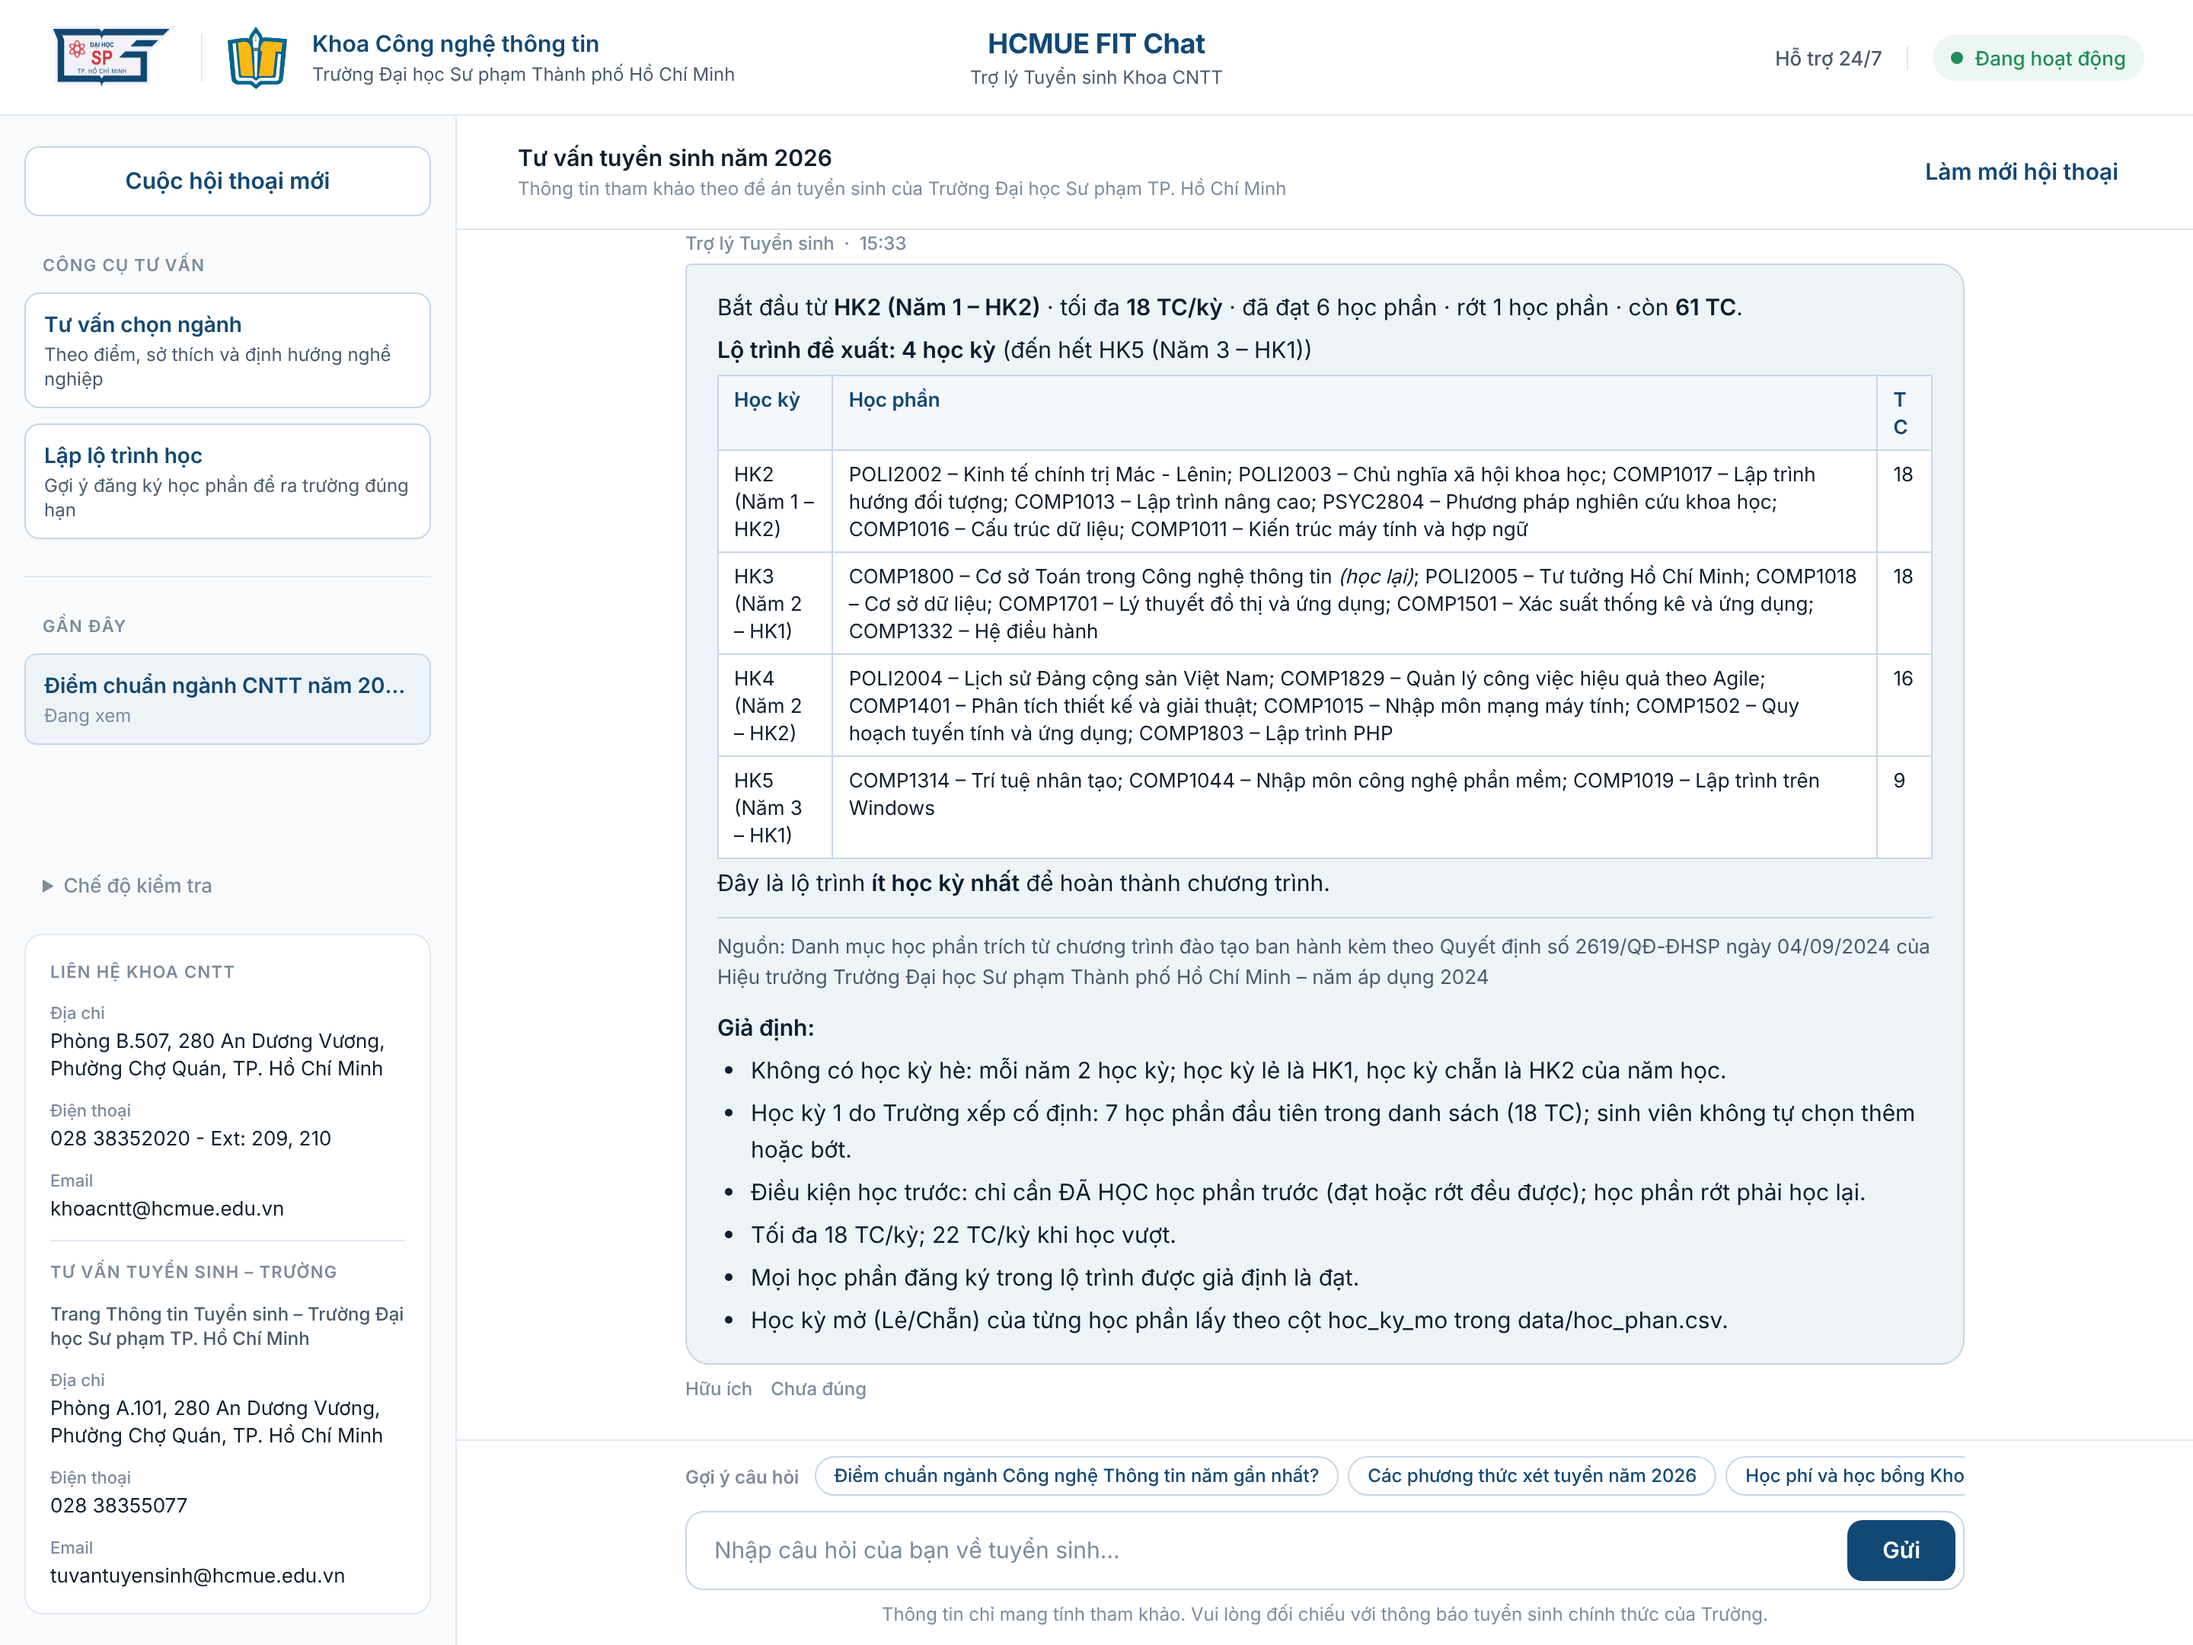
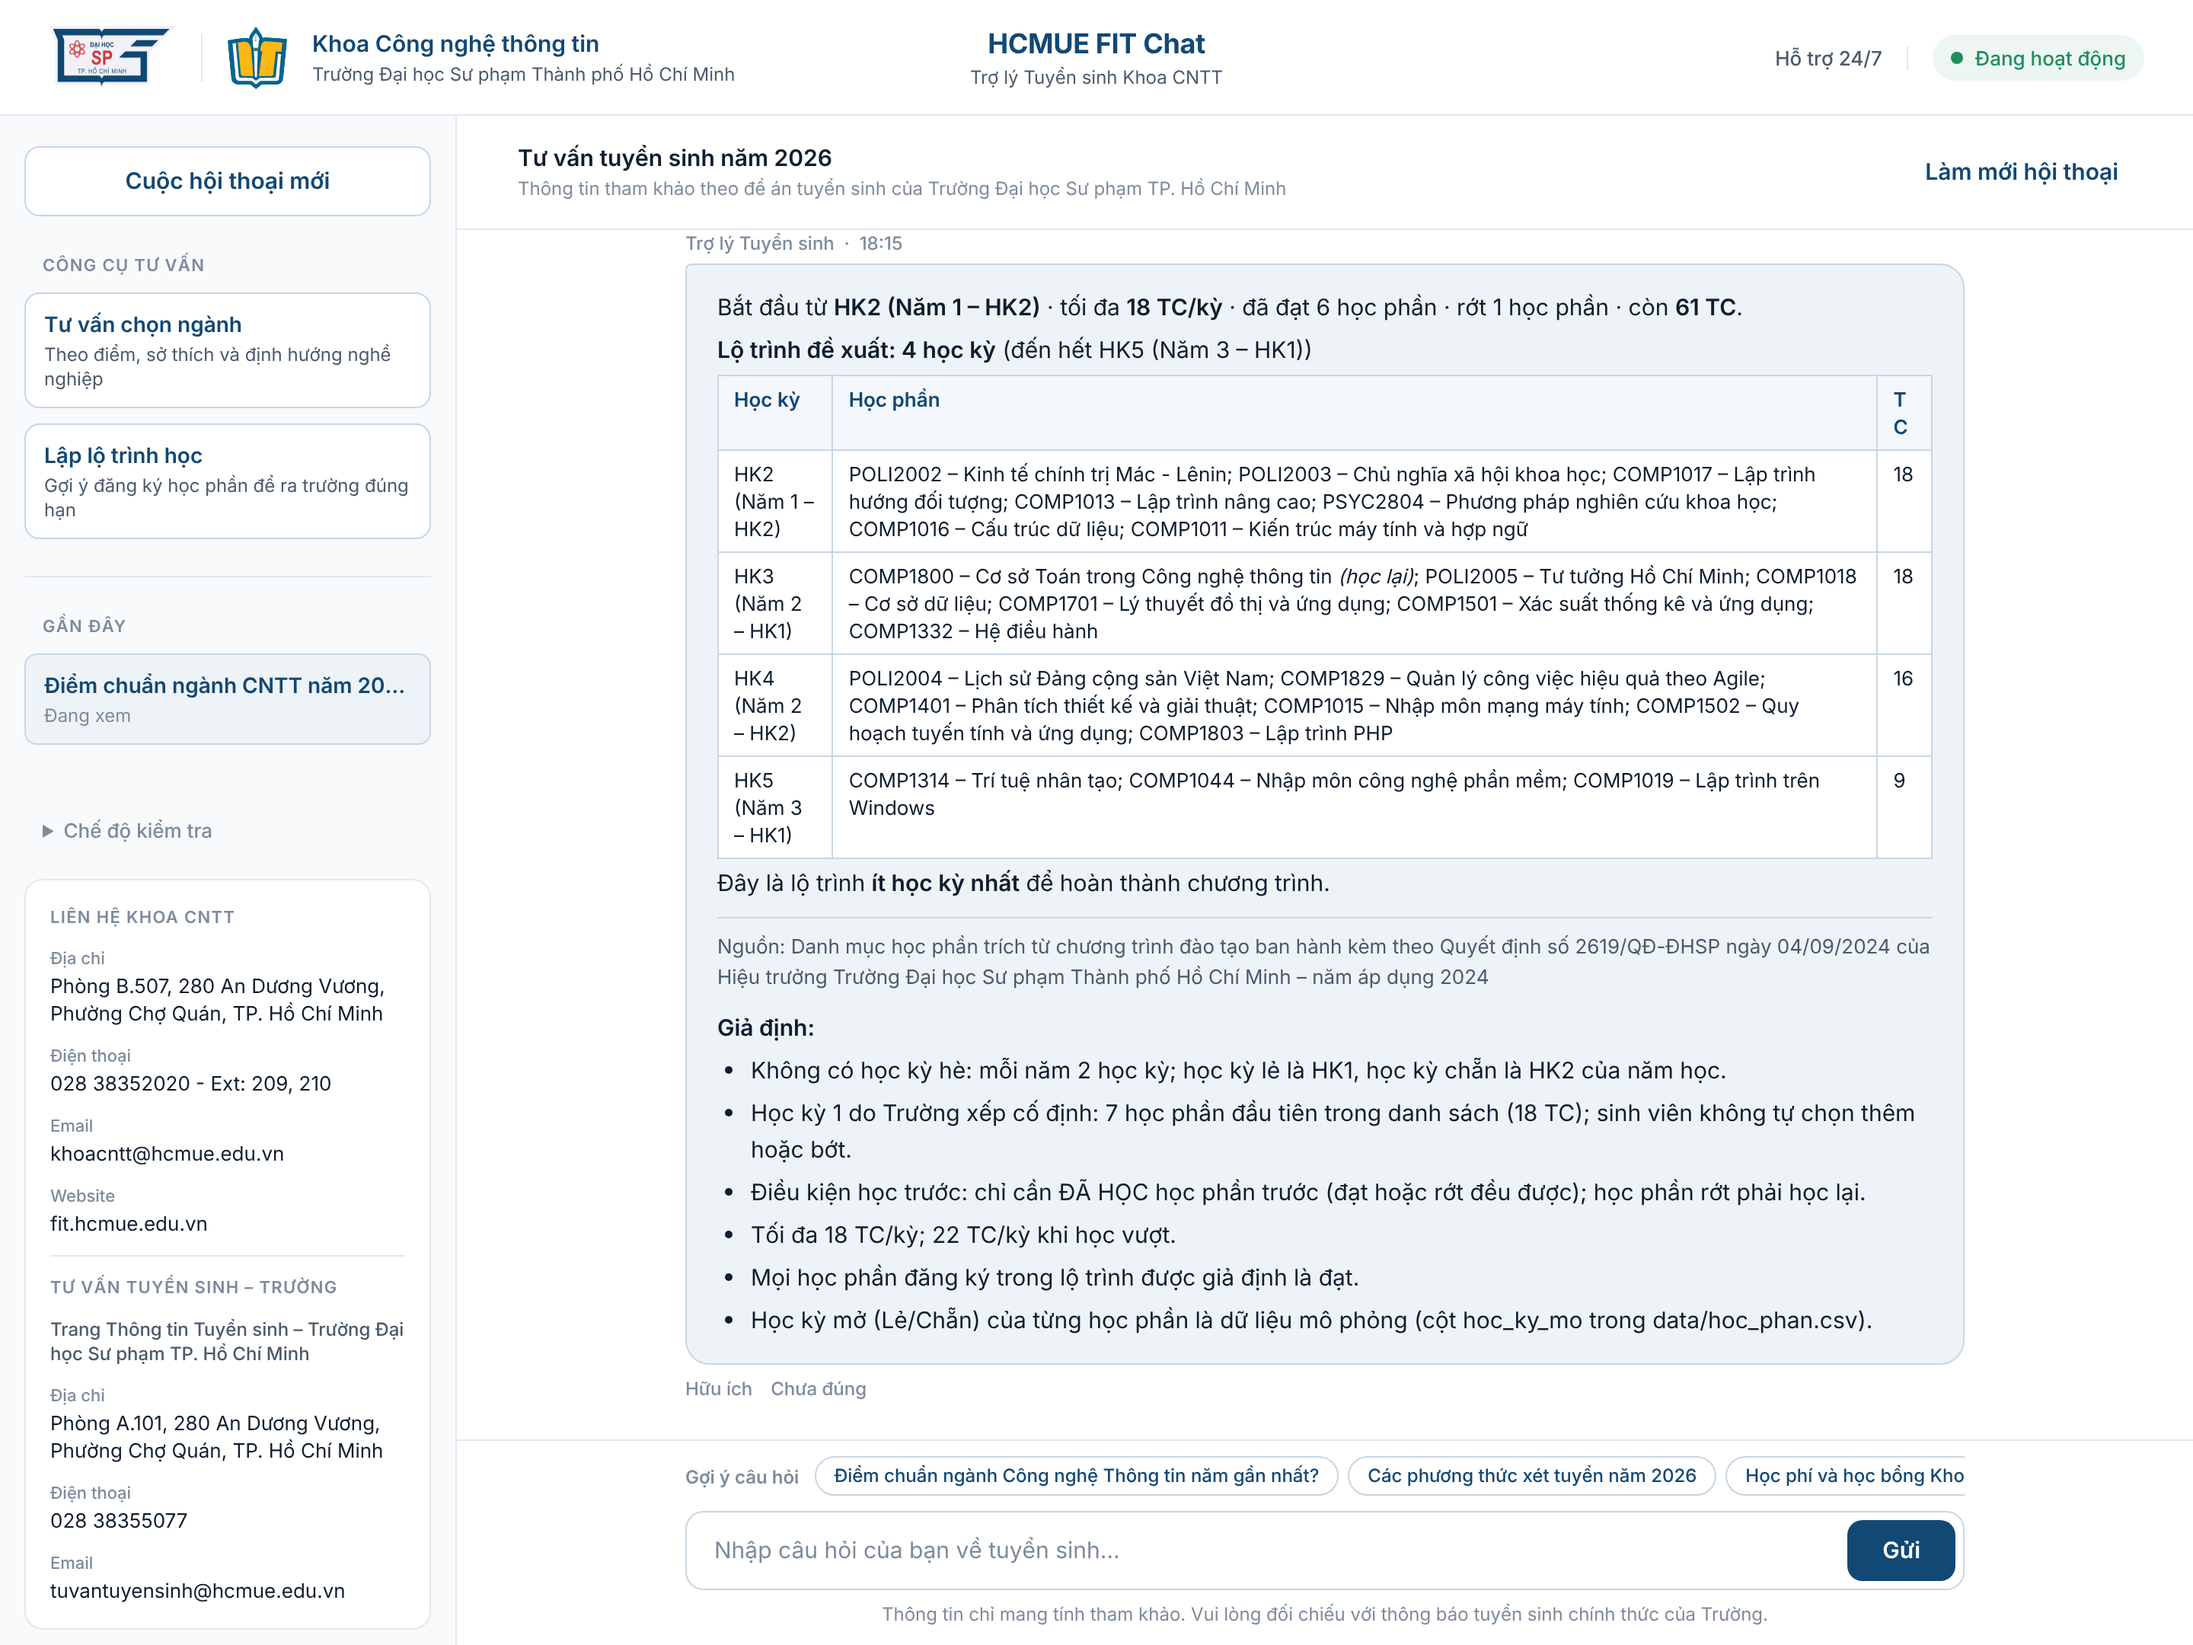
Ghi rõ kỳ mở học phần (C1) là dữ liệu mô phỏng; cập nhật ảnh giao diện theo dữ liệu chính thức
Claude-Session: https://claude.ai/code/session_018JoVY2yuYEbWbmjCXAkQAX

Changed region(s): [[0.0, 0.4963, 0.1875, 0.9926], [0.5625, 0.7755, 0.7812, 0.8065]]

diff --git a/src/planner/model.py b/src/planner/model.py
@@ -47,7 +47,7 @@ GIA_DINH = [
     "Điều kiện học trước: chỉ cần ĐÃ HỌC học phần trước (đạt hoặc rớt đều được); học phần rớt phải học lại.",
     f"Tối đa {MAX_TC_BINH_THUONG} TC/kỳ; {MAX_TC_HOC_VUOT} TC/kỳ khi học vượt.",
     "Mọi học phần đăng ký trong lộ trình được giả định là đạt.",
-    "Học kỳ mở (Lẻ/Chẵn) của từng học phần lấy theo cột hoc_ky_mo trong data/hoc_phan.csv.",
+    "Học kỳ mở (Lẻ/Chẵn) của từng học phần là dữ liệu mô phỏng (cột hoc_ky_mo trong data/hoc_phan.csv).",
 ]
 
 

diff --git a/README.md b/README.md
@@ -123,7 +123,7 @@ tests/                  pytest + kịch bản hội thoại tests/scenarios.yaml
 
 | File | Nội dung | Nguồn | Giấy phép / ghi chú |
 |---|---|---|---|
-| `data/hoc_phan.csv` | 28 học phần (75 TC) | Chương trình đào tạo ban hành kèm Quyết định 2619/QĐ-ĐHSP ngày 04/09/2024, Trường ĐHSP TP.HCM | Văn bản công khai của Trường; nhóm trích để học tập. Cột `hoc_ky_mo` cần ghi rõ lấy từ CTĐT hay mô phỏng |
+| `data/hoc_phan.csv` | 28 học phần (75 TC) | Chương trình đào tạo ban hành kèm Quyết định 2619/QĐ-ĐHSP ngày 04/09/2024, Trường ĐHSP TP.HCM | Văn bản công khai của Trường; nhóm trích để học tập. Mã, tên, tín chỉ, học phần học trước khớp CTĐT; cột `hoc_ky_mo` (Lẻ/Chẵn) là **mô phỏng** dựa trên kế hoạch đào tạo (2 học phần COMP1016, COMP1332 khác kế hoạch CTĐT) |
 | `data/tuyen_sinh_2026.json` | Tổ hợp, ngưỡng, điểm chuẩn 2026 (tham số C2) | Nhóm tổng hợp từ fanpage tuyển sinh của Trường (link trong file) | Trường không ban hành công văn riêng; nhóm xác nhận fanpage là nguồn chính thức (`da_kiem_chung: true`) |
 | `data/knowledge_base.json` | Cơ sở tri thức của chatbot (44 mục, mỗi mục có `nguon`, `nam`) | Fanpage tuyển sinh, Cổng Chính phủ (điểm chuẩn, tổ hợp); QĐ 2465, QĐ 2849 (học phí); NĐ 116/2020 (hỗ trợ sinh viên sư phạm); QĐ 2892, thông báo KTX (ký túc xá); KH 539/KH-ĐHSP (nhập học 2026); Quy trình xét học bổng KKHT (2023); CTĐT CNTT (QĐ 2619) và Cẩm nang tuyển sinh 2025 của Khoa (CTĐT, việc làm) | Văn bản công khai của Trường/Chính phủ; mọi mục đã kiểm chứng |
 | `data/survey.csv` | 15 mẫu khảo sát, 4 thuộc tính (ID3) | Nhóm tự khảo sát | Dữ liệu ẩn danh của nhóm, dùng cho học tập |

diff --git a/docs/C1_LO_TRINH.md b/docs/C1_LO_TRINH.md
@@ -39,7 +39,9 @@ Giả định nhóm thống nhất (`model.GIA_DINH`, chatbot hiển thị kèm 
 3. **Học trước = chỉ cần đã học** (đạt hoặc rớt đều được). Học phần rớt vẫn phải học lại.
 4. **Tối đa 18 TC/kỳ; 22 TC/kỳ khi học vượt.**
 5. Mọi học phần đăng ký trong lộ trình được giả định là đạt.
-6. Kỳ mở (Lẻ/Chẵn) lấy theo cột `hoc_ky_mo` (ghi rõ trong báo cáo lấy từ CTĐT hay mô phỏng).
+6. Kỳ mở (Lẻ/Chẵn) lấy theo cột `hoc_ky_mo` – **dữ liệu mô phỏng** dựa trên kế hoạch đào tạo của CTĐT (đối chiếu
+   CTĐT 2024: mã, tên, tín chỉ, học phần học trước của 28 học phần đều khớp; riêng COMP1016 và COMP1332 có kỳ mở
+   khác kế hoạch CTĐT, nhóm giữ nguyên vì đây là chương trình mô phỏng).
 
 ## 3. Mô hình hóa (mục 2.1)
 
